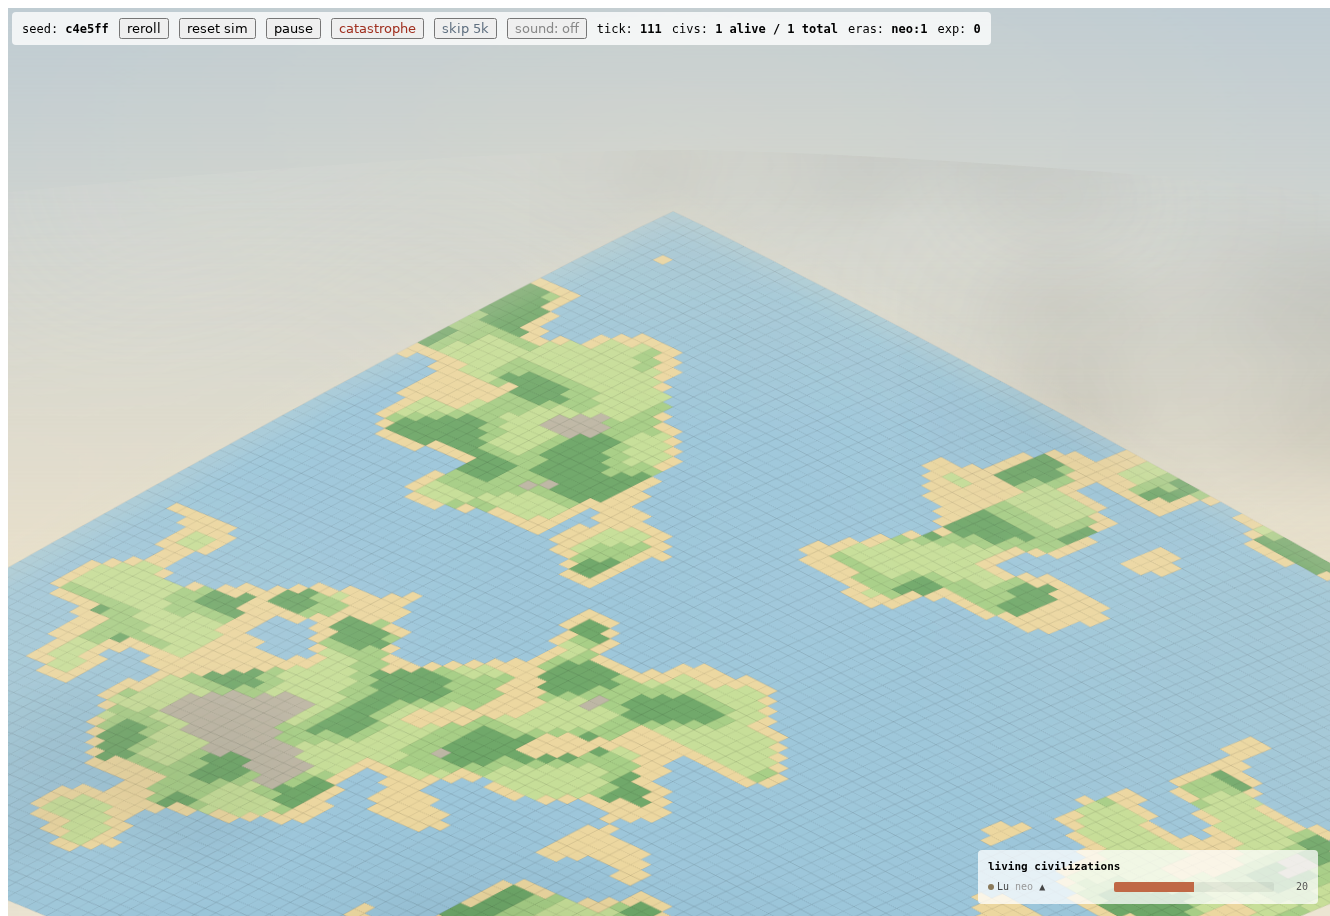
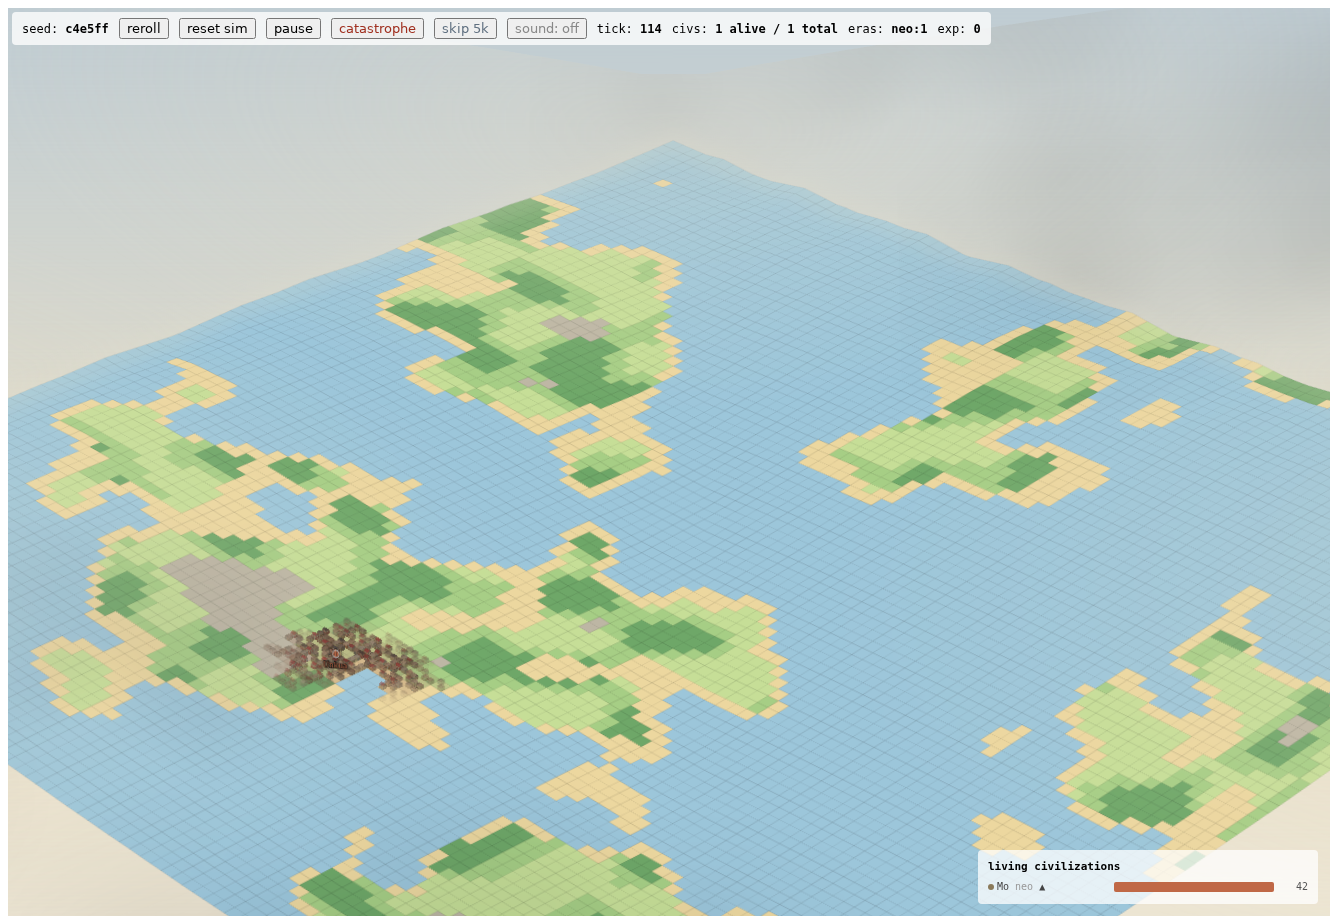
Curvature v3: silhouette remap — the world rises to its horizon
Lawrence: 'the diamond is inside of the curve; the world should go up
to the curve.' Two changes:

1. The arc he saw was an artifact — fog banks clipping at the world
   texture's straight top edge, which the bent mesh turned into a false
   horizon floating above the land. Fog now fades out near the apex.
2. The bend is redesigned to match his read: instead of dropping the
   corners (which kept the tent silhouette, just tilted), the remap
   pulls each column's upper edge toward a horizon arc through the
   apex — the diamond's wings RISE to meet the curve, the surface
   between horizon and front compresses, perspective bunches far rows
   toward the horizon (t^e), and the front edge stays pinned. The
   visible top of the world IS the horizon now.

Corner haze moved into world space (bends with the mesh; can never
strand in the sky). curvature 0 still reproduces the flat build
exactly; overshoot reads as a flat-topped dome. Calibration triples
re-captured at both window sizes.

diff --git a/src/atmosphere.ts b/src/atmosphere.ts
@@ -60,21 +60,23 @@ export const ATMOS = {
   // 1 = deliberately too much, defaults in the subtle-correct middle.
   // The *Frac values calibrate what "1" means and rarely need touching.
   curve: {
+    // The curvature knob remaps the world's upper silhouette onto a horizon
+    // arc: the apex stays put and the diamond's side wings RISE to meet a
+    // smooth limb curve, each column compressing toward it — the world goes
+    // up to the horizon instead of sitting inside it. 0 = the flat diamond,
+    // 1 = wings fully on the arc (too much; far columns stretch visibly).
     curvature: 0.62,
     perspective: 0.45,
-    // The limb: horizontal falling-away, curvature concentrated at the apex
-    // (the top corner becomes a rounded crown — visible at any window size).
-    limbFrac:  0.11,         // at curvature=1: side-corner drop, fraction of world-texture height
-    limbPower: 1.5,          // 1 = straight taper, 2 = curvature pushed to corners; lower = rounder apex
-    // The depth: far rows drop over the horizon.
-    depthFrac: 0.06,         // at curvature=1: extra back-edge drop, fraction of texture height
+    remapMax:   0.55,        // at curvature=1: how far the wings travel from tent to arc
+    arcSagFrac: 0.11,        // horizon arc droop from apex toward the sides, fraction of texture height
+    arcPower:   1.7,         // arc shape: 2 = flat crown that dives at the ends, 1 = conical
     pinchMaxFrac:     0.16,  // at perspective=1: horizontal narrowing of the far edge
-    vertCompressFrac: 0.05,  // at perspective=1: vertical squeeze of the far rows
+    vertCompressFrac: 0.35,  // at perspective=1: how hard far rows bunch toward the horizon (t^(1+this))
     // Corner haze: soft sky-colored washes over the three far corners so the
     // points dissolve into atmosphere instead of terminating sharply. Scales
     // with the curvature knob (0 = none, exactly the old silhouette).
     edgeHazeAlpha: 0.55,
-    edgeHazeSize:  340,      // base radius, screen px before per-corner stretch
+    edgeHazeSize:  500,      // base radius, world px before per-corner stretch
     // Edge feather: a blurred sky-tinted wash along the two far shorelines so
     // the waterline-to-sky boundary is a gradient, not a ruled line. Rides
     // the curvature knob; set 0 to disable.
@@ -300,13 +302,13 @@ export interface Atmosphere {
   fogLayer: Container;
   // biomeLayer is tinted seasonally; attach it once after scene construction.
   attach(layers: { biomeLayer: Container }): void;
-  // The bent mesh the world draws through; attach once after creation.
-  attachPlane(plane: MeshPlane): void;
+  // The bent mesh the world draws through; attach once after creation, with
+  // the diamond's corner positions in texture pixels (left, apex, right, front).
+  attachPlane(plane: MeshPlane, geom: { left: { x: number; y: number }; apex: { x: number; y: number }; right: { x: number; y: number }; front: { x: number; y: number } }): void;
+  // World-space layers: shoreline feather and corner haze; add to the world
+  // container above fog (they bend with the mesh).
   hazeLayer: Container;
-  // World-space shoreline feather; add to the world container above fog.
   featherLayer: Container;
-  // Seat the three corner-haze washes (screen coords: left, top, right corner).
-  layoutHaze(corners: Array<{ x: number; y: number }>): void;
   setCurvature(v: number): void;   // 0..1, live scrub
   setPerspective(v: number): void; // 0..1, live scrub
   curvature(): number;
@@ -386,50 +388,78 @@ export function createAtmosphere(): Atmosphere {
   }
 
   // Corner haze: three soft washes that melt the diamond's far points into
-  // the sky. Tinted live to the current horizon color; alpha rides the
+  // the sky. Lives in WORLD space (so it bends with the mesh and can never
+  // strand in the sky); tinted live to the horizon color; alpha rides the
   // curvature knob.
   const hazeLayer = new Container();
   const hazeTexture = makeHazeTexture();
   const hazeSprites: Sprite[] = [];
-  for (let i = 0; i < 3; i++) {
-    const sp = new Sprite(hazeTexture);
-    sp.anchor.set(0.5);
-    sp.alpha = 0;
-    hazeLayer.addChild(sp);
-    hazeSprites.push(sp);
+  {
+    const corners = [
+      { x: -1528, y: 764, sx: 2.6, sy: 1.1 },  // left
+      { x: 0, y: -8, sx: 2.2, sy: 0.95 },      // apex
+      { x: 1528, y: 764, sx: 2.6, sy: 1.1 },   // right
+    ];
+    for (const cnr of corners) {
+      const sp = new Sprite(hazeTexture);
+      sp.anchor.set(0.5);
+      sp.alpha = 0;
+      sp.position.set(cnr.x, cnr.y);
+      const base = ATMOS.curve.edgeHazeSize / 128;
+      sp.scale.set(base * cnr.sx, base * cnr.sy);
+      hazeLayer.addChild(sp);
+      hazeSprites.push(sp);
+    }
   }
 
   let attachedBiomeLayer: Container | null = null;
   let attachedPlane: MeshPlane | null = null;
   let planeBasePositions: Float32Array | null = null;
+  let planeGeom: { left: { x: number; y: number }; apex: { x: number; y: number }; right: { x: number; y: number }; front: { x: number; y: number } } | null = null;
   let curCurvature = ATMOS.curve.curvature;
   let curPerspective = ATMOS.curve.perspective;
 
-  // Bend the world mesh: a planetary drop proportional to distance² from the
-  // front-center anchor (the back and corners fall away over the horizon),
-  // plus a perspective pinch + vertical squeeze of the far rows. Vertices
-  // only change when the knobs change — zero per-frame cost.
+  // Bend the world mesh by remapping its upper silhouette onto a horizon arc.
+  // For each column: the diamond's tent edge (apex-to-corner straight line)
+  // is pulled toward a smooth arc through the apex; everything between the
+  // tent and the front anchor compresses proportionally, the front stays
+  // pinned, and content above the tent (feather blur, sky margin) rides
+  // rigidly with the wing. Perspective adds a far-edge pinch and a vertical
+  // squeeze of the far rows. Vertices only change when the knobs change.
   function applyCurve() {
-    if (!attachedPlane || !planeBasePositions) return;
+    if (!attachedPlane || !planeBasePositions || !planeGeom) return;
     const geo = attachedPlane.geometry;
-    const texW = (geo as any).width as number;
     const texH = (geo as any).height as number;
     const base = planeBasePositions;
     const out = new Float32Array(base.length);
-    const cx = texW / 2;
+    const { left, apex, right, front } = planeGeom;
     const c = ATMOS.curve;
+    const k = curCurvature * c.remapMax;
+    const halfSpan = (right.x - left.x) / 2;
     for (let i = 0; i < base.length; i += 2) {
       const x = base[i], y = base[i + 1];
-      const u = x / texW, v = y / texH;
-      // Limb: horizontal falling-away, |u-0.5|^limbPower — with power < 2 the
-      // curvature concentrates at the apex, so the bow is visible even when a
-      // narrow window crops the side corners out of view.
-      const limb = Math.pow(Math.abs(u - 0.5) * 2, c.limbPower);
-      // Depth: the back rows drop over the horizon.
-      const depth = Math.pow(1 - v, 2);
-      let ny = y + curCurvature * texH * (c.limbFrac * limb + c.depthFrac * depth);
-      ny += curPerspective * c.vertCompressFrac * texH * depth;
-      const nx = cx + (x - cx) * (1 - curPerspective * c.pinchMaxFrac * (1 - v));
+      // The diamond's upper edge height at this column (clamped beyond corners).
+      const dx = Math.min(1, Math.abs(x - apex.x) / halfSpan);
+      const tentY = apex.y + dx * (left.y - apex.y);
+      // The target horizon arc through the apex.
+      const arcY = apex.y + c.arcSagFrac * texH * Math.pow(dx, c.arcPower);
+      const newTopY = tentY + (arcY - tentY) * k;
+      let ny: number;
+      if (y <= tentY) {
+        // Sky margin / feather above the edge: ride with the wing.
+        ny = y + (newTopY - tentY);
+      } else if (y < front.y) {
+        // Surface between the edge and the front anchor: compress toward the
+        // new top (front pinned), with perspective bunching the far rows
+        // toward the horizon (t^e redistribution).
+        let t = (y - tentY) / (front.y - tentY);
+        t = Math.pow(t, 1 + curPerspective * c.vertCompressFrac);
+        ny = newTopY + t * (front.y - newTopY);
+      } else {
+        ny = y;
+      }
+      // Perspective also pinches the far edge narrower.
+      const nx = apex.x + (x - apex.x) * (1 - curPerspective * c.pinchMaxFrac * Math.max(0, 1 - y / texH));
       out[i] = nx;
       out[i + 1] = ny;
     }
@@ -527,17 +557,25 @@ export function createAtmosphere(): Atmosphere {
     const fogStrength = ATMOS.weather.fogAlpha * season.fogMult * eraAirCur.fogMult * dawnDusk;
     const shadowStrength = ATMOS.weather.shadowAlpha
       + (ATMOS.weather.shadowAlphaDread - ATMOS.weather.shadowAlpha) * dread;
-    const advance = (d: Drifter, alpha: number) => {
+    // Fog fades out near the diamond's apex so banks never paint over the
+    // sky margin of the world texture (a clipped bank reads as a false
+    // horizon line floating above the land).
+    const advance = (d: Drifter, alpha: number, fadeNearApex: boolean) => {
       d.sp.x += wx * d.speedMult * dt;
       d.sp.y += wy * d.speedMult * dt;
       if (d.sp.x > DRIFT.maxX + 600) { d.sp.x = DRIFT.minX - 500; d.sp.y = DRIFT.minY + weatherRand() * (DRIFT.maxY - DRIFT.minY); }
       if (d.sp.x < DRIFT.minX - 600) { d.sp.x = DRIFT.maxX + 500; d.sp.y = DRIFT.minY + weatherRand() * (DRIFT.maxY - DRIFT.minY); }
       if (d.sp.y > DRIFT.maxY + 500) { d.sp.y = DRIFT.minY - 400; d.sp.x = DRIFT.minX + weatherRand() * (DRIFT.maxX - DRIFT.minX); }
       if (d.sp.y < DRIFT.minY - 500) { d.sp.y = DRIFT.maxY + 400; d.sp.x = DRIFT.minX + weatherRand() * (DRIFT.maxX - DRIFT.minX); }
-      d.sp.alpha = alpha * d.baseAlpha;
+      let envelope = 1;
+      if (fadeNearApex) {
+        const topReach = d.sp.y - d.sp.height / 2;
+        envelope = Math.max(0, Math.min(1, (topReach + 60) / 360));
+      }
+      d.sp.alpha = alpha * d.baseAlpha * envelope;
     };
-    for (const d of cloudShadows) advance(d, shadowStrength);
-    for (const d of fogBanks) advance(d, fogStrength);
+    for (const d of cloudShadows) advance(d, shadowStrength, false);
+    for (const d of fogBanks) advance(d, fogStrength, true);
 
     // Scar fade envelopes.
     for (let i = scars.length - 1; i >= 0; i--) {
@@ -644,21 +682,14 @@ export function createAtmosphere(): Atmosphere {
   return {
     skyLayer, glazeLayer, scarLayer, cloudShadowLayer, fogLayer,
     attach: (layers: { biomeLayer: Container }) => { attachedBiomeLayer = layers.biomeLayer; },
-    attachPlane: (plane: MeshPlane) => {
+    attachPlane: (plane, geom) => {
       attachedPlane = plane;
+      planeGeom = geom;
       planeBasePositions = plane.geometry.positions.slice();
       applyCurve();
     },
     hazeLayer,
     featherLayer,
-    layoutHaze: (corners: Array<{ x: number; y: number }>) => {
-      const base = ATMOS.curve.edgeHazeSize / 128; // texture is 256px; scale to base radius
-      const stretch: Array<[number, number]> = [[2.4, 1.0], [2.0, 0.85], [2.4, 1.0]]; // left, top, right
-      for (let i = 0; i < 3 && i < corners.length; i++) {
-        hazeSprites[i].position.set(corners[i].x, corners[i].y);
-        hazeSprites[i].scale.set(base * stretch[i][0], base * stretch[i][1]);
-      }
-    },
     setCurvature: (v: number) => { curCurvature = Math.max(0, Math.min(1, v)); applyCurve(); },
     setPerspective: (v: number) => { curPerspective = Math.max(0, Math.min(1, v)); applyCurve(); },
     curvature: () => curCurvature,

diff --git a/src/main.ts b/src/main.ts
@@ -519,8 +519,10 @@ world.addChild(atmos.cloudShadowLayer);
 world.addChild(cityMarkersContainer);
 // Mist banks veil everything but the text.
 world.addChild(atmos.fogLayer);
-// Shoreline feather melts the far edges into the sky; bends with the world.
+// Shoreline feather + corner haze melt the far edges into the sky; both are
+// world-space so they bend with the mesh.
 world.addChild(atmos.featherLayer);
+world.addChild(atmos.hazeLayer);
 world.addChild(labelLayer);
 atmos.attach({ biomeLayer });
 
@@ -544,9 +546,18 @@ const worldPlane = new MeshPlane({ texture: worldRT, verticesX: 32, verticesY: 2
 
 app.stage.addChild(atmos.skyLayer);
 app.stage.addChild(worldPlane);
-app.stage.addChild(atmos.hazeLayer);
 app.stage.addChild(atmos.glazeLayer);
-atmos.attachPlane(worldPlane);
+// The silhouette remap needs the diamond's corners in texture pixels.
+const toTex = (wx: number, wy: number) => ({
+  x: (wx - WORLD_CAPTURE.x0) * captureScale,
+  y: (wy - WORLD_CAPTURE.y0) * captureScale,
+});
+atmos.attachPlane(worldPlane, {
+  left: toTex(-1528, 764),
+  apex: toTex(0, -8),
+  right: toTex(1528, 764),
+  front: toTex(0, 1536),
+});
 atmos.layout(window.innerWidth, window.innerHeight);
 (window as any).__layers = { world, cityMarkersContainer, labelLayer, biomeLayer };
 
@@ -562,13 +573,6 @@ function centerWorld() {
   worldBaseY = window.innerHeight * ATMOS.composition.horizonFrac + WORLD_CAPTURE.y0 * captureScale;
   worldPlane.x = worldBaseX;
   worldPlane.y = worldBaseY;
-  // Corner haze sits on the diamond's far points (left, top, right).
-  const toScreen = (wx: number, wy: number) => ({
-    x: worldBaseX + (wx - WORLD_CAPTURE.x0) * captureScale,
-    y: worldBaseY + (wy - WORLD_CAPTURE.y0) * captureScale,
-  });
-  const half = (GRID_SIZE * 32) / 2; // diamond half-width in world px
-  atmos.layoutHaze([toScreen(-half, half / 2), toScreen(0, 0), toScreen(half, half / 2)]);
 }
 centerWorld();
 

diff --git a/RUN_LOG.md b/RUN_LOG.md
@@ -21,3 +21,4 @@
 - 04:30 Window 3 (curvature): RT + bent MeshPlane implementation. Calibration: 0 pixel-identical to old build, 1 clearly too much, default 0.55/0.45 subtle. Corner hazes (sky-tinted, dread-aware) melt the diamond points; curvature 0 = old silhouette exactly.
 - 05:00 Verified: all 4 scar types positioned through the mesh, markers+labels on cities (zoom crop; earlier "missing labels" scare was small-size + slow frame-coupled fade in the 3.5fps software renderer), suspense flow intact, build passes. Software-renderer FPS cost ~35% from the RT pass — needs one GPU sanity check from Lawrence. WINDOW_3_NOTES written.
 - 05:40 Lawrence: no visible bend at his window size. Root cause: radial-d² put all curvature at the side corners, which narrow framings crop out — my 1600x900 full-diamond calibration flattered it. Reshaped: planetary-limb term |u-0.5|^1.5 concentrates curvature at the apex (visible at any framing; the point becomes a crown) + depth term; added a blurred sky-tinted feather along the two far shorelines (world-space, bends with the mesh) so the edge line itself stops being ruled. Defaults recalibrated at BOTH 1330x916 and 1600x900 (curvature 0.62, limbFrac 0.11). Calibration folder now has narrow_/wide_ triples.
+- 06:30 Lawrence: "the diamond is inside the curve — the world should go up to the curve." Two findings: (1) the arc he saw was an artifact (fog banks clipping at the world texture's top edge, bent into a false horizon by the mesh) — fixed by fading fog near the apex; (2) his read was the right design — curvature is now a SILHOUETTE REMAP: each column's tent edge is pulled toward a horizon arc through the apex, wings RISE to meet it, far rows bunch toward the horizon (t^e perspective), front pinned. Corner haze moved into world space (can never strand). Verified both viewports; curvature 0 still equals the old flat build; scar-at-the-limb smoke test passes.
